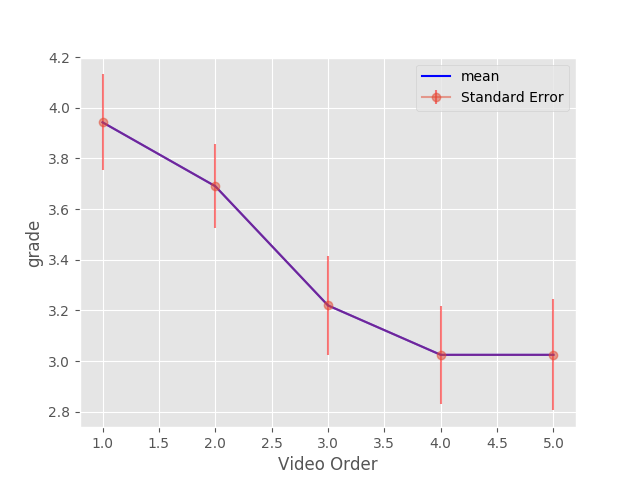
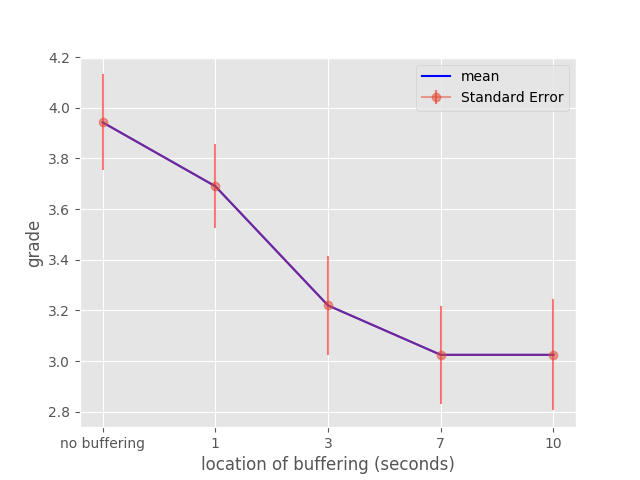
fixing wo first x-axis label

diff --git a/data/plot_wo_first.py b/data/plot_wo_first.py
@@ -74,8 +74,8 @@ def plot_without_first():
         std_errs.append(se)
 
     # x axis configuration
-    x = [0, 0.5, 1, 2, 4]
-    x_label = "seconds of Buffering"
+    x = []
+    x_label = ""
 
     # Plot Graph
     plt.figure()
